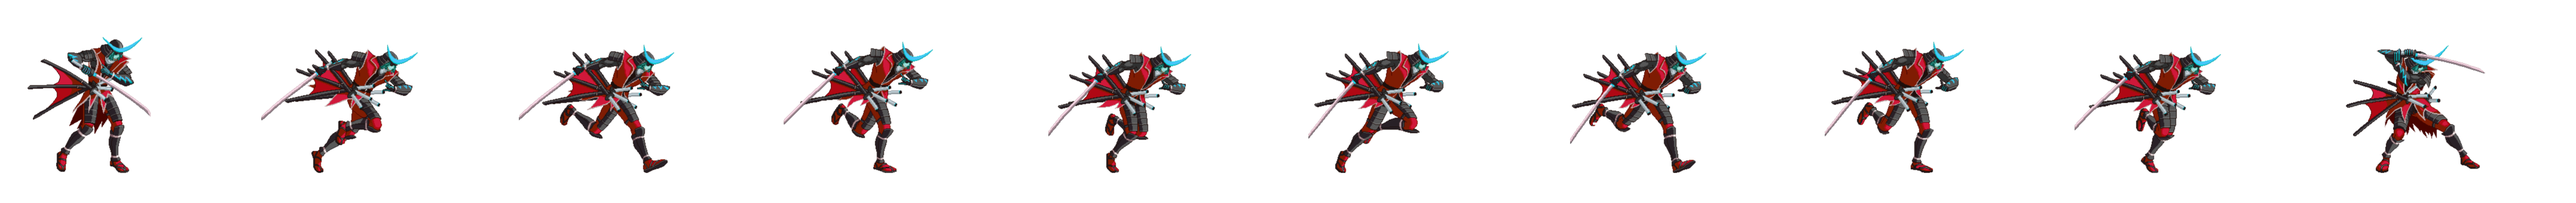
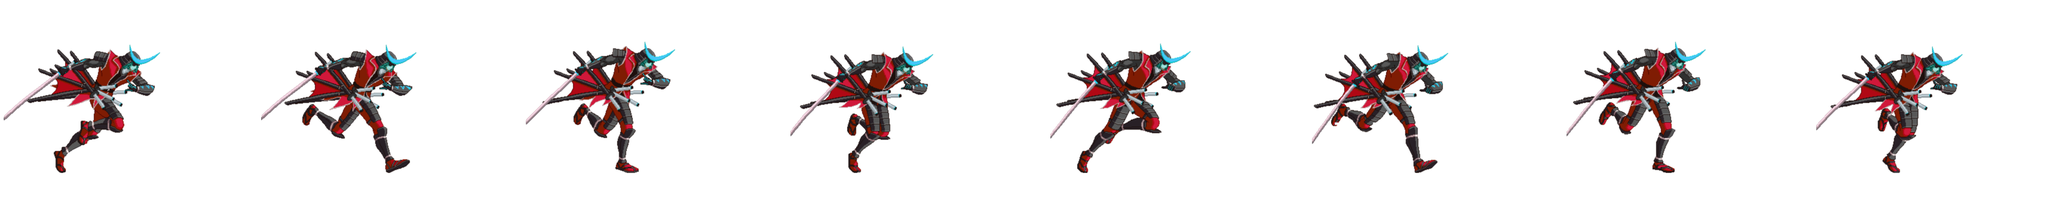
modif de la css pour le placement des perso et leur arrivée en jeu

diff --git a/scripts/animation.js b/scripts/animation.js
@@ -8,8 +8,7 @@ const ANIM_RUN_END = "runEnd";
 var player1 = $("#player1");
 var player2 = $("#player2");
 var sequenceAnim = [
-                    [ANIM_SLASH_HIGH, 2], [ANIM_SLASH_MIDDLE, 1], [ANIM_SLASH_LOW, 1],
-                    [ANIM_SLASH_HIGH, 1], [ANIM_SLASH_LOW, 2], [ANIM_SLASH_MIDDLE, 1],
+                    
                     [ANIM_IDLE, 3]
                    ]; // le chiffre représente le nombre de répétition à faire par anim
 var currentAnim = sequenceAnim[0][0];
@@ -19,43 +18,40 @@ var animIteration = 0; // le nombre de répétition à faire par anim
 function init(){
     
     introSequence();
-    player2.css('right', '-30%');
+
     player2.addClass(ANIM_IDLE);
     
 }
 
 function introSequence(){
     currentAnim = ANIM_RUN_CYCLE;
-    player1.css('left', '-50%');
+    player1.css('left', '-40%');
     player1.addClass(currentAnim);
-    
+    player2.css('right', '-40%');
+    player2.addClass(currentAnim);
   
-    // jquery animate, vous pouvez ajouter des paramètres de easings en téléchargeant jQueryUI : http://jqueryui.com/download/#!version=1.12.1&themeParams=none&components=111111111111000000000000000000001111111111111111
-    // Pour tester les easings (bas de page) : http://api.jqueryui.com/easings/
-    player1.animate({"left":'50%', "bottom":'20%'}, 700, 'linear', endIntroSequence);
-  //  player2.animate({"right":'40%'}, 800, 'linear', endIntroSequence);
+    
+    player1.animate({"left":'50%'}, 700, 'linear', endIntroSequence);
+    player2.animate({"right":'50%'}, 700, 'linear', endIntroSequence);
+ 
 }
 
 function endIntroSequence(){
     player1.removeClass(currentAnim);
-   // player2.removeClass(currentAnim);
+    player2.removeClass(currentAnim);
+   
     currentAnim = ANIM_RUN_END;
     player1.addClass(currentAnim);
-    //player2.addClass(currentAnim);
+   
+    
     player1.animate({"left":'50%'}, 400, 'easeOutSine', nextAnim);
-    //player2.animate({"right":'50%'}, 400, 'easeOutSine', nextAnim);
+    player2.animate({"right":'50%'}, 400, 'easeOutSine', nextAnim);
+    
     
     player1.on("webkitAnimationIteration", repeatAnim);
     player1.on("animationiteration", repeatAnim);
     
-    // J'ai choisi de faire les animations en boucle (même les attaques, voir la css anim est en infinite)
-    // et écouter le animIteration (répétition d'une animation), pour faire cet enchainement.
-    // Vous pouvez faire des anim css jouée qu'une fois et écouter animationend mais vous serez embêtés pour jouer un nombre aléatoire de fois
-    // une animation...
-    // https://www.w3schools.com/jsref/event_animationstart.asp
-    // https://www.w3schools.com/jsref/event_animationend.asp
-    // https://www.w3schools.com/jsref/event_animationiteration.asp
-    // le clignottement des animations n'a lieu qu'une seule fois, il n'aura plus lieu lorsque vous aurez préchargé vos assets !
+  
 }
 
 function repeatAnim(){

diff --git a/css/styles.css b/css/styles.css
@@ -163,39 +163,13 @@ body {
 }
 
 
-/*draggable*/
 
-/*.dropper {
-    margin: 50px 10px 10px 50px;
-    width: 400px;
-    height: 250px;
-    background-color: #555;
-    border: 1px solid #111;
-
-    border-radius: 10px;
-    transition: all 200ms linear;
-}*/
 
 .drop_hover {
     box-shadow: 0 0 30px rgba(0, 0, 0, 0.8) inset;
 }
 
-/*.draggable {
-    display: inline-block;
-    margin: 20px 10px 10px 20px;
-    padding-top: 20px;
-    width: 80px;
-    height: 60px;
-    color: #3D110F;
-    background-color: #822520;
-    border: 4px solid #3D110F;
-    text-align: center;
-    font-size: 2em;
-    cursor: move;
 
-    transition: all 200ms linear;
-    user-select: none;
-}*/
 
 /* ---- GAME SCREEN -------------------------------------------------------------- */
 #gamePlane{
@@ -206,7 +180,7 @@ body {
     position : absolute;
     left : 0;
     right : 0;
-    bottom:175px;
+    bottom:325px;
     /*height: 10px;
     background-color: aqua;*/
 }
@@ -214,31 +188,34 @@ body {
     position : absolute;
     left : 0;
     width : 50%;
-   /* height: 10px;
-    */background-color: red;
+    
+   /* background-color: red;*/
 }
 
 #groundRight {
-    left : 10%;
-    height: 100%;
-    background-color: blue;
+    left : 50%;
+    
+    
 }
 
 /* ---- PLAYER ---- */
 #player1, #player2 {
+    
     position: absolute;
-    bottom:0;
-    /*transform: translateY(-1);*/
+  
     width : 432px;
     height: 342px;
 }
 
 #player1 {
-    left:25%;
+    
+    left:50%;
+    
+    
 }
 
 #player2 {
-    right:25%;
+    right:50%;
     transform: scaleX(-1);
 }
 
@@ -291,7 +268,7 @@ body {
 
 #player1.runCycle{
 	background: url('../ressources/animation/player1_run_cycle.png') left center;
-    animation: runCycle 0.6s steps(8) infinite; /* VOUS POUVEZ MODIFIER LA DUREE */
+    animation: runCycle 0.5s steps(8) infinite; /* VOUS POUVEZ MODIFIER LA DUREE */
 }
 
 
@@ -345,7 +322,7 @@ body {
 
 #player2.runCycle{
 	background: url('../ressources/animation/player2_run_cycle.png') right center;
-    animation: runCycle 0.6s steps(8) infinite; /* VOUS POUVEZ MODIFIER LA DUREE */
+    animation: runCycle 0.5s steps(8) infinite; /* VOUS POUVEZ MODIFIER LA DUREE */
 }
 
 @keyframes idle {
